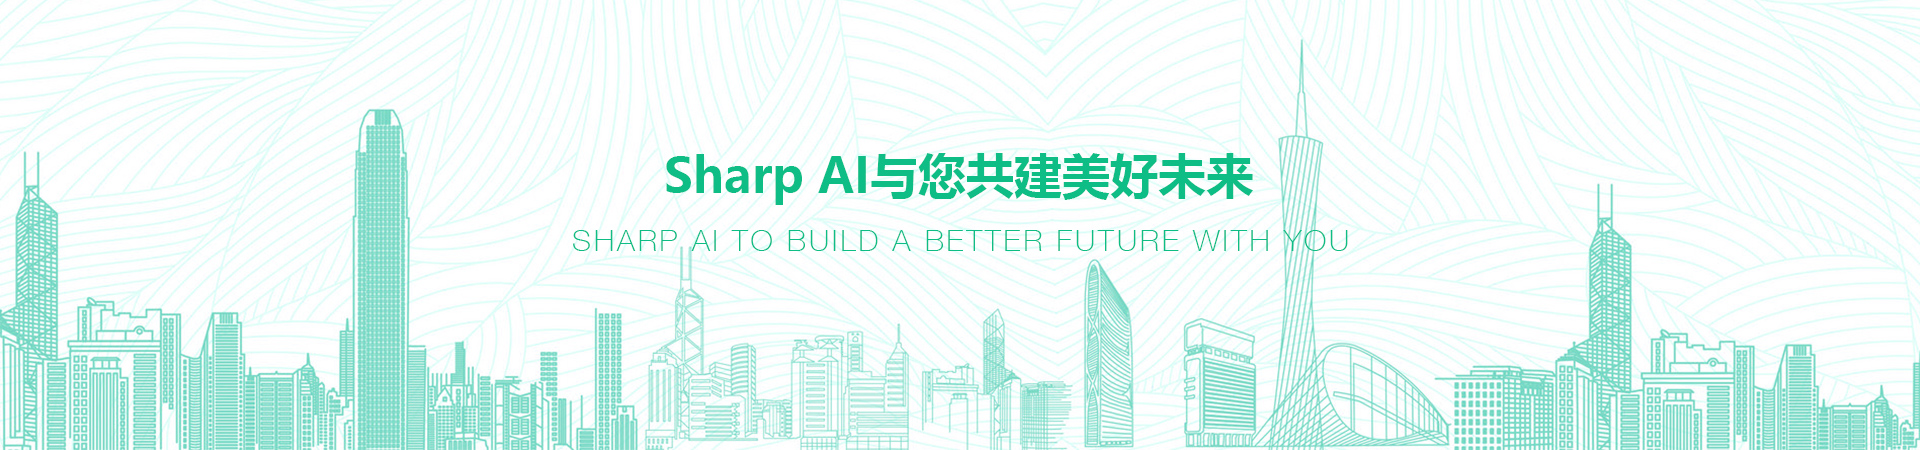
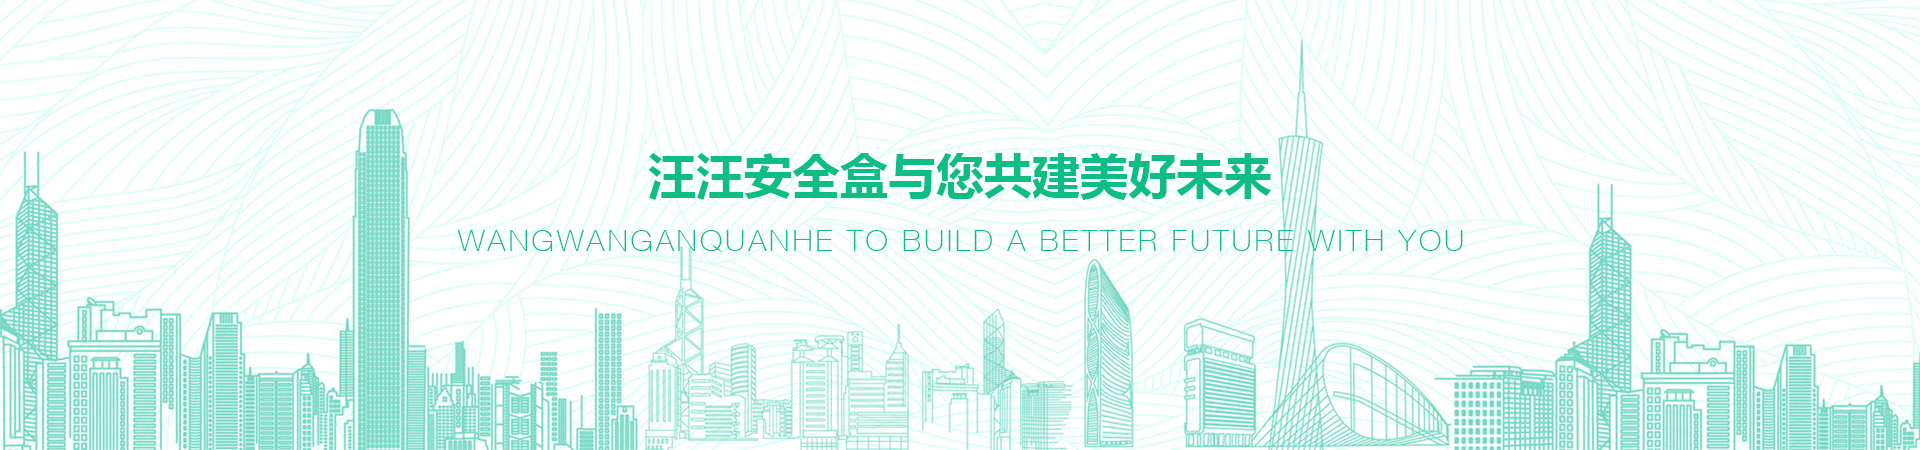
修改首页你标题和图片

Changed region(s): [[0.3125, 0.3422, 0.6562, 0.4667], [0.2188, 0.4978, 0.75, 0.56]]

diff --git a/index.html b/index.html
@@ -4,7 +4,7 @@
 
 <meta name="viewport" content="width=device-width, initial-scale=1.0, minimum-scale=1.0, maximum-scale=1.0, user-scalable=no">
 <meta name="author" content="helang.love@qq.com">
-<title>Shar-AI</title>
+<title>汪汪安全盒</title>
 <script type="text/javascript" src="css/flexible.js"></script>
 <link rel="stylesheet" href="css/global.css">
 <link rel="stylesheet" href="css/Sharp-ai.css">
